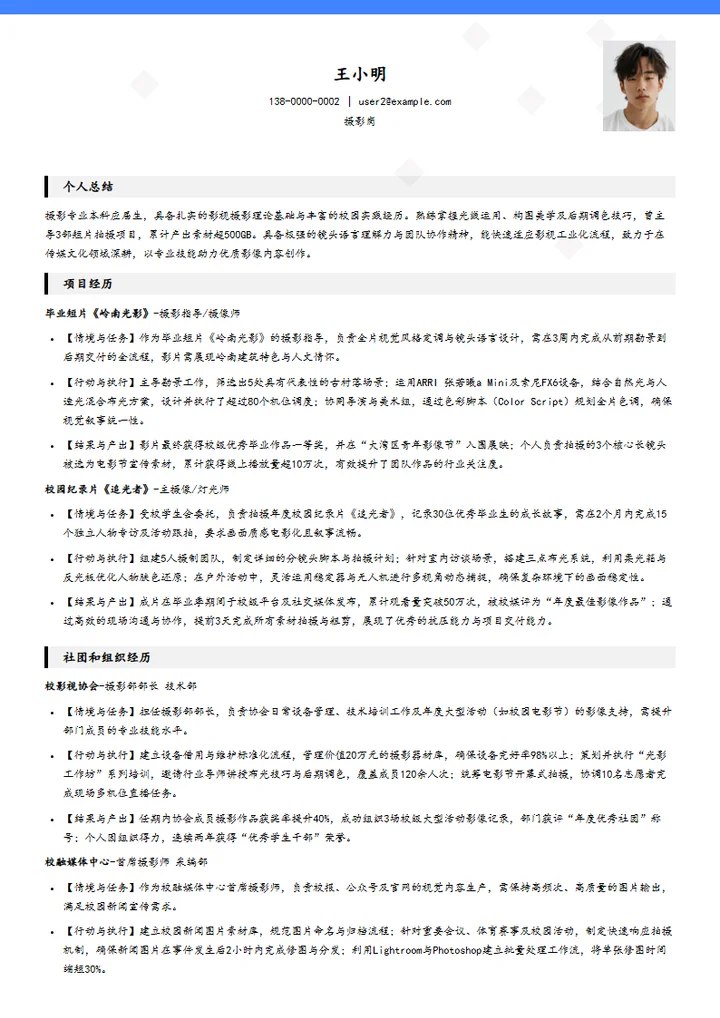
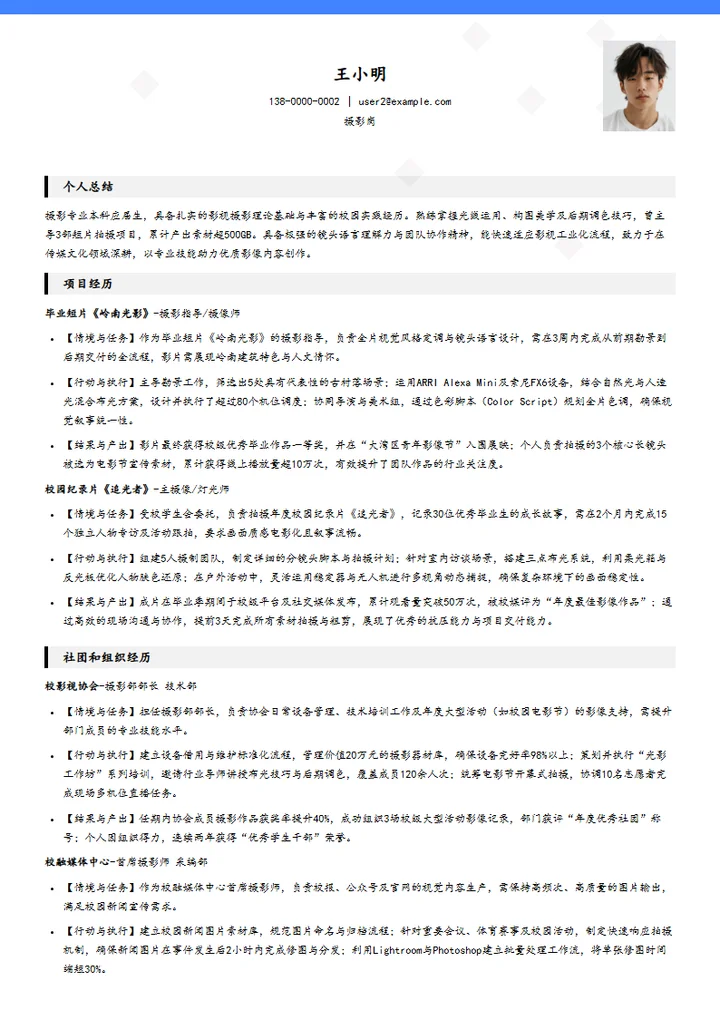
fix(content): 修复模板正文被姓名替换误伤的英文词
清洗时把 ARRI Alexa Mini / Alexnet 里的 Alex 替换成了占位名，恢复原文并重生成对应缩略图。

Changed region(s): [[0.0917, 0.3654, 0.9472, 0.4263]]

diff --git a/public/template-pages/a1337ff56487ab46.html b/public/template-pages/a1337ff56487ab46.html
@@ -33,7 +33,7 @@ html, body { margin: 0; padding: 0; background: #fff; width: 794px; }
                                       摄影指导/摄像师  
                                     </div> <div class="right" data-v-53732e9f=""><div class="avantgarde-point" style="background-color:#000000;" data-v-53732e9f=""></div> <!----> <!----> <!----> <!----></div></div> <!----> <div class="menu-content-wrapper pr" data-v-53732e9f=""><!----> <div class="menu-content menu-content-flat" data-v-53732e9f=""><ul>
 <li>【情境与任务】作为毕业短片《岭南光影》的摄影指导，负责全片视觉风格定调与镜头语言设计，需在3周内完成从前期勘景到后期交付的全流程，影片需展现岭南建筑特色与人文情怀。</li>
-<li>【行动与执行】主导勘景工作，筛选出5处具有代表性的古村落场景；运用ARRI 张若曦a Mini及索尼FX6设备，结合自然光与人造光混合布光方案，设计并执行了超过80个机位调度；协同导演与美术组，通过色彩脚本（Color Script）规划全片色调，确保视觉叙事统一性。</li>
+<li>【行动与执行】主导勘景工作，筛选出5处具有代表性的古村落场景；运用ARRI Alexa Mini及索尼FX6设备，结合自然光与人造光混合布光方案，设计并执行了超过80个机位调度；协同导演与美术组，通过色彩脚本（Color Script）规划全片色调，确保视觉叙事统一性。</li>
 <li>【结果与产出】影片最终获得校级优秀毕业作品一等奖，并在“大湾区青年影像节”入围展映；个人负责拍摄的3个核心长镜头被选为电影节宣传素材，累计获得线上播放量超10万次，有效提升了团队作品的行业关注度。</li>
 </ul></div></div></div><div id="project_experience-36033604" class="menu pr section-item-container section-36033604 section-margin-10 title-module-strip module-format-normal-flat" style="border-color:transparent;border-top:none;border-bottom:none;" data-v-53732e9f=""><!----> <div class="menu-title" data-v-53732e9f=""><div class="left flex1" style="color:unset;" data-v-53732e9f=""><span class="font_w_b" style="word-break:break-all;" data-v-53732e9f="">
                                       校园纪录片《追光者》

diff --git a/public/template-pages/r5hXZ6g.html b/public/template-pages/r5hXZ6g.html
@@ -76,7 +76,7 @@ html, body { margin: 0; padding: 0; background: #fff; width: 794px; }
                                   </div> <div class="right" data-v-53732e9f="">
                                     
                                   </div></div> <div class="menu-content-wrapper pr" data-v-53732e9f=""><!----> <div class="menu-content menu-content-flat" data-v-53732e9f=""><ul>
-<li>负责利用 tensorflow 框架，选择可用于图像比较的Siamese-FC 网络进行特征提取，减小 张若曦net 的卷积和池化步长，使深度特征的尺度更接近原图大小，以便于获得深层特征更精确的空间位置、语义特征、颜色特征；</li>
+<li>负责利用 tensorflow 框架，选择可用于图像比较的Siamese-FC 网络进行特征提取，减小 Alexnet 的卷积和池化步长，使深度特征的尺度更接近原图大小，以便于获得深层特征更精确的空间位置、语义特征、颜色特征；</li>
 <li>利用 Siamese-FC 网络产生的图像相似性热度图获得模板图像和搜索图像的相似性较高的区域，作为后续搜索候选区域；</li>
 <li>使用 matlab 编写程序，利用最近邻搜索算法和像素点深度特征，计算模板图像和搜索图像候选区域的相似性度量 BBDS(一个滑动窗口下最佳相似点对个数/点对的相对空间距离)。</li>
 </ul></div></div></div></div></div></div></div></div></div> <div class="cover cover-transparent" style="height:undefinedpx;" data-v-53732e9f=""><!----></div> <div class="cover" style="height:undefinedpx;" data-v-53732e9f=""></div></div></div></body>
